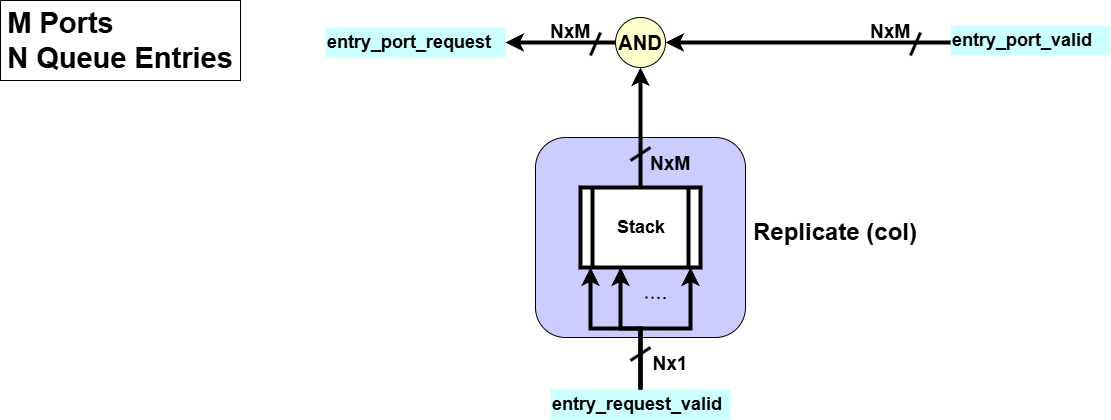
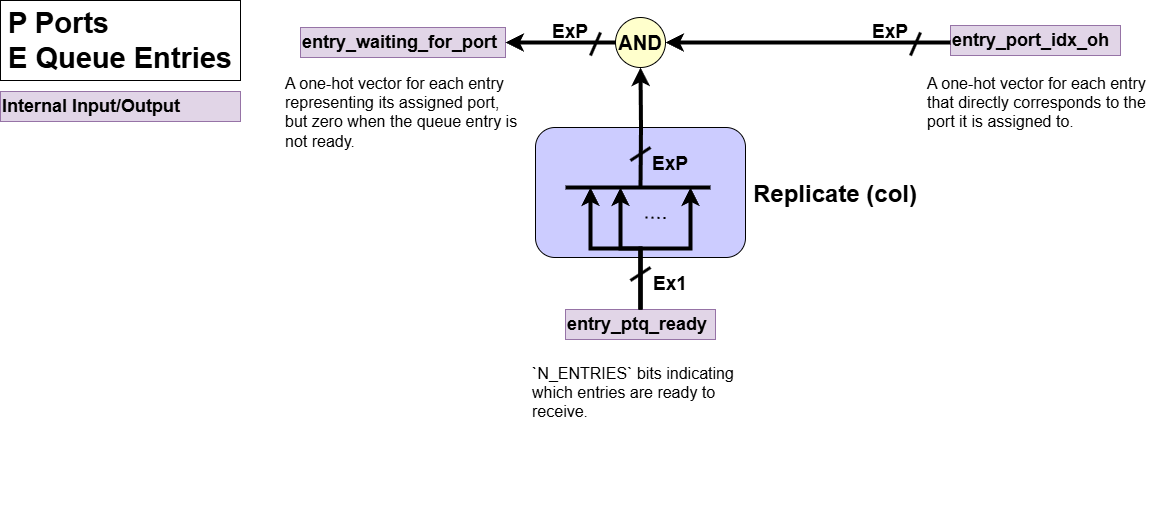
ptq dispatcher almost-final ver

Changed region(s): [[0.2448, 0.031, 1.0, 1.0], [0.0, 0.0, 0.2142, 0.2476], [0.1836, 0.0, 0.2142, 0.031]]

diff --git a/tools/backend/lsq-generator-python/vhdl_gen/generators/dispatchers.py b/tools/backend/lsq-generator-python/vhdl_gen/generators/dispatchers.py
@@ -115,8 +115,8 @@ class PortToQueueDispatcher:
             ctx, 'port_bits', 'i', self.numPorts, self.bitsW)
         port_valid_i = LogicArray(ctx, 'port_valid', 'i', self.numPorts)
         port_ready_o = LogicArray(ctx, 'port_ready', 'o', self.numPorts)
-        entry_valid_i = LogicArray(ctx, 'entry_valid', 'i', self.numEntries)
-        entry_bits_valid_i = LogicArray(
+        entry_alloc_i = LogicArray(ctx, 'entry_valid', 'i', self.numEntries)
+        entry_payload_valid_i = LogicArray(
             ctx, 'entry_bits_valid', 'i', self.numEntries)
         if (self.numPorts != 1):
             entry_port_idx_i = LogicVecArray(
@@ -127,37 +127,37 @@ class PortToQueueDispatcher:
         queue_head_oh_i = LogicVec(ctx, 'queue_head_oh', 'i', self.numEntries)
 
         # one-hot port index
-        entry_port_valid = LogicVecArray(
-            ctx, 'entry_port_valid', 'w', self.numEntries, self.numPorts)
+        entry_port_idx_oh = LogicVecArray(
+            ctx, 'entry_port_idx_oh', 'w', self.numEntries, self.numPorts)
         for i in range(0, self.numEntries):
             if (self.numPorts == 1):
-                arch += Op(ctx, entry_port_valid[i], 1)
+                arch += Op(ctx, entry_port_idx_oh[i], 1)
             else:
-                arch += BitsToOH(ctx, entry_port_valid[i], entry_port_idx_i[i])
+                arch += BitsToOH(ctx, entry_port_idx_oh[i], entry_port_idx_i[i])
 
         # Mux for the data/addr
         for i in range(0, self.numEntries):
             arch += Mux1H(ctx, entry_bits_o[i],
-                          port_bits_i, entry_port_valid[i])
+                          port_bits_i, entry_port_idx_oh[i])
 
         # Entries that request data/address from a any port
-        entry_request_valid = LogicArray(
-            ctx, 'entry_request_valid', 'w', self.numEntries)
+        entry_ptq_ready = LogicArray(
+            ctx, 'entry_ptq_ready', 'w', self.numEntries)
         for i in range(0, self.numEntries):
-            arch += Op(ctx, entry_request_valid[i], entry_valid_i[i],
-                       'and', 'not', entry_bits_valid_i[i])
+            arch += Op(ctx, entry_ptq_ready[i], entry_alloc_i[i],
+                       'and', 'not', entry_payload_valid_i[i])
 
         # Entry-port pairs that the entry request the data/address from the port
-        entry_port_request = LogicVecArray(
-            ctx, 'entry_port_request', 'w', self.numEntries, self.numPorts)
+        entry_waiting_for_port = LogicVecArray(
+            ctx, 'entry_waiting_for_port', 'w', self.numEntries, self.numPorts)
         for i in range(0, self.numEntries):
-            arch += Op(ctx, entry_port_request[i], entry_port_valid[i],
-                       'when', entry_request_valid[i], 'else', 0)
+            arch += Op(ctx, entry_waiting_for_port[i], entry_port_idx_oh[i],
+                       'when', entry_ptq_ready[i], 'else', 0)
 
         # Reduce the matrix for each entry to get the ready signal:
         # If one or more entries is requesting data/address from a certain port, ready is set high.
         port_ready_vec = LogicVec(ctx, 'port_ready_vec', 'w', self.numPorts)
-        arch += Reduce(ctx, port_ready_vec, entry_port_request, 'or')
+        arch += Reduce(ctx, port_ready_vec, entry_waiting_for_port, 'or')
         arch += VecToArray(ctx, port_ready_o, port_ready_vec)
 
         # AND the request signal with valid, it shows entry-port pairs that are both valid and ready.
@@ -166,7 +166,7 @@ class PortToQueueDispatcher:
         for i in range(0, self.numEntries):
             for j in range(0, self.numPorts):
                 arch += ctx.get_current_indent() + f'{entry_port_and.getNameWrite(i, j)} <= ' \
-                    f'{entry_port_request.getNameRead(i, j)} and {port_valid_i.getNameRead(j)};\n'
+                    f'{entry_waiting_for_port.getNameRead(i, j)} and {port_valid_i.getNameRead(j)};\n'
 
         # For each port, the oldest entry receives bit this cycle. The priority masking per port(column)
         # generates entry-port pairs that will tranfer data/address this cycle.
@@ -200,8 +200,8 @@ class PortToQueueDispatcher:
         port_bits_i:        LogicVecArray,
         port_valid_i:       LogicArray,
         port_ready_o:       LogicArray,
-        entry_valid_i:      LogicArray,
-        entry_bits_valid_i: LogicArray,
+        entry_alloc_i:      LogicArray,
+        entry_payload_valid_i: LogicArray,
         entry_port_idx_i:   LogicVecArray,
         entry_bits_o:       LogicVecArray,
         entry_wen_o:        LogicArray,
@@ -219,8 +219,8 @@ class PortToQueueDispatcher:
             port_bits_i          : Input data or address bits from each port
             port_valid_i         : Valid signal for each input port (Valid data/address)
             port_ready_o         : Ready signal indicating the queue is ready to receive data/address
-            entry_valid_i        : Valid bit for a queue entry
-            entry_bits_valid_i   : Valid bit for the contents of a queue entry
+            entry_alloc_i        : Allocation bit for a queue entry
+            entry_payload_valid_i: Valid bit for the data/address of a queue entry
             entry_port_idx_i     : Indicates to which port the entry is assigned
             entry_bits_o         : Output bits written to the entry
             entry_wen_o          : Write enable for each entry 
@@ -235,8 +235,8 @@ class PortToQueueDispatcher:
                 port_bits_i         = ldp_addr_i,
                 port_valid_i        = ldp_addr_valid_i,
                 port_ready_o        = ldp_addr_ready_o,
-                entry_valid_i       = ldq_valid,
-                entry_bits_valid_i  = ldq_addr_valid,
+                entry_alloc_i       = ldq_valid,
+                entry_payload_valid_i  = ldq_addr_valid,
                 entry_port_idx_i    = ldq_port_idx,
                 entry_bits_o        = ldq_addr,
                 entry_wen_o         = ldq_addr_wen,
@@ -295,10 +295,10 @@ class PortToQueueDispatcher:
                 f'port_valid_{i}_i => {port_valid_i.getNameRead(i)},\n'
         for i in range(0, self.numEntries):
             arch += ctx.get_current_indent() + \
-                f'entry_valid_{i}_i => {entry_valid_i.getNameRead(i)},\n'
+                f'entry_alloc_{i}_i => {entry_alloc_i.getNameRead(i)},\n'
         for i in range(0, self.numEntries):
             arch += ctx.get_current_indent() + \
-                f'entry_bits_valid_{i}_i => {entry_bits_valid_i.getNameRead(i)},\n'
+                f'entry_payload_valid_{i}_i => {entry_payload_valid_i.getNameRead(i)},\n'
         for i in range(0, self.numEntries):
             if (self.numPorts != 1):
                 arch += ctx.get_current_indent() + \

diff --git a/docs/LSQ/PortToQueueDispatcher.md b/docs/LSQ/PortToQueueDispatcher.md
@@ -24,103 +24,122 @@ Let's assume the following generic parameters for dimensionality:
 * `PAYLOAD_WIDTH`: The bit-width of the payload (e.g., 8 bits).
 * `PORT_IDX_WIDTH`: The bit-width required to index a port (e.g., `ceil(log2(N_PORTS))`).
 
+**Signal Naming and Dimensionality**:  
+This module is generated from a higher-level description (e.g., in Python), which results in a specific convention for signal naming in the final VHDL code. It's important to understand this convention when interpreting diagrams and signal tables.
+
+- Generation Pattern: A signal that is conceptually an array in the source code (e.g., `port_bits_i`) is "unrolled" into multiple, distinct signals in the VHDL entity. The generated VHDL signals are indexed with a suffix, such as `port_bits_{p}_i`, where `{p}` is the port index.
+
+- Interpreting Diagrams: If a diagram or conceptual description uses a base name without an index (e.g., `port_bits_i`), it represents a collection of signals. The actual dimension is expanded based on the context:
+
+    - Port-related signals (like `port_bits_i`) are expanded by the number of ports (`N_PORTS`).
+    - Entry-related signals (like `entry_alloc_i`) are expanded by the number of queue entries (`N_ENTRIES`).
+
 ### Port Interface Signals
 
 ![Port Interface](./figs/ptq/PTQ_Port_Interface.png)
 
 These signals are used for communication between the external modules and the dispatcher's ports.
+ `p=[0, N_PORTS-1]`
 
-| Signal Name | Direction | Dimensionality | Description |
-| :--- | :--- | :--- | :--- |
-| **Inputs** | | | |
-| `port_bits_i` | Input | `N_PORTS` of `std_logic_vector(PAYLOAD_WIDTH-1:0)` | Array of payloads (address or data), one for each port. |
-| `port_valid_i` | Input | `N_PORTS` of `std_logic` | Array of valid flags. When `port_valid_i[p]` is high, the payload on `port_bits_i[p]` is valid.|
-| **Outputs** | | | |
-| `port_ready_o` | Output | `N_PORTS` of `std_logic` | Array of ready flags. `port_ready_o[p]` goes high if the queue can accept the payload from port `p` this cycle. |
+| Python Variable Name | VHDL Signal Name | Direction | Dimensionality | Description |
+| :--- | :--- | :--- | :--- | :--- |
+| **Inputs** | | | | |
+| `port_bits_i` | `port_bits_{p}_i` | Input | `std_logic_vector(PAYLOAD_WIDTH-1:0)` | The payload (address or data) for port `p`.|
+| `port_valid_i` | `port_valid_{p}_i` | Input | `std_logic` | Valid flag for port `p`. When high, it indicates that the payload on `port_bits_{p}_i` is valid. |
+| **Outputs** | | | | |
+| `port_ready_o` | `port_ready_{p}_o` | Output | `std_logic` | Ready flag for port `p`. This signal goes high if the queue can accept the payload from port `p` this cycle. |
 
 
 
 ### Queue Interface Signals
 
 These signals are used for communication between the dispatcher logic and the queue's memory entries.
+ `e=[0, N_ENTRIES-1]`
 
 ![Queue Interface](./figs/ptq/PTQ_Queue_Interface.png)
 
-| Signal Name | Direction | Dimensionality | Description |
-| :--- | :--- | :--- | :--- |
-| **Inputs** | | | |
-| `entry_valid_i` | Input | `N_ENTRIES` of `std_logic` | Is queue entry `e` logically allocated? |
-| `entry_bits_valid_i` | Input | `N_ENTRIES` of `std_logic` | Has the address or the data slot for entry `e` already been filled? |
-| `entry_port_idx_i` | Input | `N_ENTRIES` of `std_logic_vector(PORT_IDX_WIDTH-1:0)`| Indicates to which port each entry is assigned. |
-| `queue_head_oh_i` | Input | `std_logic_vector(N_ENTRIES-1:0)` | One-hot vector indicating the head entry in the queue. |
-| **Outputs** | | | |
-| `entry_bits_o` | Output | `N_ENTRIES` of `std_logic_vector(PAYLOAD_WIDTH-1:0)`| The data to be written into each queue entry. Think of it as the ink flowing into a row on the whiteboard. |
-| `entry_wen_o` | Output | `N_ENTRIES` of `std_logic` | A write-enable signal for each entry. When `entry_wen_o` of entry `e` is high, `entry_bits_valid_i[e]` will become high by the logic outside of the dispatcher. |
+| Python Variable Name | VHDL Signal Name | Direction | Dimensionality | Description |
+| :--- | :--- | :--- | :--- | :--- |
+| **Inputs** | | | | |
+| `entry_alloc_i` | `entry_valid_{e}_i` | Input | `std_logic` | Is queue entry `e` logically allocated?|
+| `entry_payload_valid_i` | `entry_bits_valid_{e}_i` | Input | `std_logic` | Has the address or the data slot for entry `e` already had valid one? |
+| `entry_port_idx_i` | `entry_port_idx_{e}_i` | Input | `std_logic_vector(PORT_IDX_WIDTH-1:0)`| Indicates to which port entry `e` is assigned. |
+| `queue_head_oh_i` | `queue_head_oh_{e}_i` | Input | `std_logic_vector(N_ENTRIES-1:0)` | One-hot vector indicating the head entry in the queue. |
+| **Outputs** | | | | |
+| `entry_bits_o` | `entry_bits_{e}_o` | Output | `std_logic_vector(PAYLOAD_WIDTH-1:0)`| The payload to be written into queue entry `e`. |
+| `entry_wen_o` | `entry_wen_{e}_o` | Output | `std_logic` | A write-enable signal for entry `e`. When high, `entry_bits_valid_{e}_i` is expected to be asserted by logic outside of this module. This logic exists outside of the dispatcher module. When the write-enable signal is on, this outside logic makes the dispatcher to consider the payload in the queue entry `e` is the valid one. |
 
 
 
 
-The Port-to-Queue Dispatcher has the following responsibilities:
+The Port-to-Queue Dispatcher has the following responsibilities (with 3-port, 4-entry store address dispatcher example):
 
 1. **Matching**  
     ![Matching](./figs/ptq/PTQ_matching_description.png)  
+    ![Matching](./figs/ptq/PTQ_Matching.png)  
     The Matching block is responsible for identifying which queue entries are actively waiting to receive an address or data payload.
     - **Input**:  
-        - `entry_valid_i`: Indicates if the entry is allocated by the group allocator.
-        - `entry_bits_valid_i`: Indicates if the entry's payload slot is already filled. 
-    - **Processing**: For each queue entry, this block performs the check: `entry_valid_i AND (NOT entry_bits_valid_i)`. An entry is considered waiting only if it has been allocated (`entry_valid_i = 1`) but its payload slot is still empty (`entry_bits_valid_i = 0`)
+        - `entry_alloc_i`: Indicates if the entry is allocated by the group allocator.
+        - `entry_payload_valid_i`: Indicates if the entry's payload slot is already valid. 
+    - **Processing**: For each queue entry, this block performs the check: `entry_alloc_i AND (NOT entry_payload_valid_i)`. An entry is considered waiting only if it has been allocated (`entry_alloc_i = 1`) but its payload slot is still empty (`entry_payload_valid_i = 0`)
     - **Output**:  
-        - `entry_request_valid`: A array of bits indicating the queue entry is ready to receive address or data.
+        - `entry_ptq_ready`: `N_ENTRIES` bits indicating the queue entry is ready to receive address or data.
 
 2. **Port Index Decoder**  
     ![Port_Index_Decoder](./figs/ptq/PTQ_Port_Index_Decoder_description.png)  
+    ![Port_Index_Decoder](./figs/ptq/PTQ_Port_Index_Decoder.png)  
     When the group allocator allocates a queue entry, it also assigns the queue entry to a specific port, storing this port assignment as an integer. The Port Index Decoder decodes the port assignment for each queue entry from an integer representation to a one-hot representation.
     - **Input**:   
         - `entry_port_idx_i`: Queue entry-port assignment information
     - **Processing**:  
         - It performs a integer-to-one-hot conversion on the port index associated with each entry. For example, if there are 3 ports, an integer index of `1 (01 in binary)` would be converted to a one-hot vector of `010`.
     - **Output**:  
-        - `entry_port_valid`: A one-hot vector for each entry that directly corresponds to the port it is assigned to.
+        - `entry_port_idx_oh`: A one-hot vector for each entry that directly corresponds to the port it is assigned to.
 
 3. **Payload Mux**  
     ![Mux1H](./figs/ptq/PTQ_Payload_Mux_description.png)  
+    ![PTQ_Payload_MUX](./figs/ptq/PTQ_Payload_MUX.png)  
     This block routes the address or data payload from the appropriate input port to the correct queue entries. 
     - **Input**:  
-         - `port_bits_i`: An array containing the address or data payload from all access ports.
-         - `entry_port_valid`: The one-hot port assignment for each queue entry, used as the select signal.
-    - **Processing**: For each queue entry, a multiplexer `Mux1H` uses the corresponding `entry_port_valid` one-hot vector to select one payload from `port_bits_i` array.
+         - `port_bits_i`: `N_PORTS` of the address or data payload from all access ports.
+         - `entry_port_idx_oh`: The one-hot port assignment for each queue entry, used as the select signal.
+    - **Processing**: For each queue entry, a multiplexer `Mux1H` uses the corresponding `entry_port_idx_oh` one-hot vector to select one payload from `port_bits_i`.
     - **Output**:  
         - `entry_bits_o`: The selected payload of each queue entry.
 
 4. **Entry-Port Assignment Masking Logic**  
     ![Entry-Port Assignment Assignment Logic](./figs/ptq/PTQ_entry_port_assignment_masking_description.png)  
-    Each entry is waiting for the payload from a certain port. This block masks out the port assignments for each queue entry if it is not ready to receive the payload. It propagates these entry-port assignment information only for entries that are available to receive the payload.
+    ![Entry-Port Assignment Assignment Logic](./figs/ptq/PTQ_Entry_Port_Assignment_Masking.png)   
+
+    Each queue entry which is waiting for data, can only receive data from one port. This converts entry waiting from one-bit signal to a one-hot representation of the port it is waiting for the data from.
     
     - **Input**:  
-         - `entry_port_valid`: A one-hot vector for each entry representing its assigned port.
-         - `entry_request_valid`: A bit array indicating which entries are ready to receive.
-    - **Processing**: Performs a bitwise AND operation between each entry's one-hot port assignment (`entry_port_valid`) and its readiness status (`entry_request_valid`). This masks out assignments for entries that are not ready.
+         - `entry_port_idx_oh`: A one-hot vector for each entry representing its assigned port.
+         - `entry_ptq_ready`: `N_ENTRIES` bits indicating which entries are ready to receive.
+    - **Processing**: Performs a bitwise AND operation between each entry's one-hot port assignment (`entry_port_idx_oh`) and its readiness status (`entry_ptq_ready`). This masks out assignments for entries that are not waiting.
     - **Output**:  
-        - `entry_port_request`: A one-hot vector for each entry representing its assigned port, but zero when the queue entry is not ready.
+        - `entry_waiting_for_port`: A one-hot vector for each entry representing its assigned port, but zero when the queue entry is not ready.
 
 
 
 5. **Handshake Logic**  
     ![PTQ_Handshake](./figs/ptq/PTQ_Handshake_description.png)  
+    ![PTQ_Handshake](./figs/ptq/PTQ_Handshake.png)  
     This block manages the `valid/ready` handshake protocol with the external access ports. It generates the outgoing `port_ready_o` signals and produces the final entry-port assignments that have completed a successful handshake (i.e. the internal request is ready and the external port is valid).
 
     - **Input**:  
-        - `entry_port_request`: A one-hot vector for each entry representing its assigned port, but zero when the queue entry is not ready.
+        - `entry_waiting_for_port`: A one-hot vector for each entry representing its assigned port, but zero when the queue entry is not ready.
         - `port_valid_i`: The incoming port valid signals from each external port.
     - **Processing**:  
         - Ready Generation: It determines if any queue entry is waiting for data from a specific port. If so, it asserts the `port_ready_o` signal for that port to indicate it can accept data. 
-        - Handshake: It then uses the external `port_valid_i` signals to mask out entries in `entry_port_request` if the corresponding port is not valid.
+        - Handshake: It then uses the external `port_valid_i` signals to mask out entries in `entry_waiting_for_port` if the corresponding port is not valid.
     - **Output**:
         - `port_ready_o`: The outgoing ready signal to each external port.
         - `entry_port_and`: Represents the set of handshaked entry-port assignments. This signal indicates a successful handshake and is sent to the **Arbitration Logic** to select the oldest one.
 
 6. **Arbitration Logic**  
     ![PTQ_Handshake](./figs/ptq/PTQ_Arbitration_description.png)  
+    ![PTQ_masking](./figs/ptq/PTQ_masking.png)  
     The core decision making block of the dispatcher. When multiple handshaked entry-port assignments are ready to be written in the same cycle, it chooses the oldest queue entry among the valid ones for each port.
     - **Input**:  
         - `entry_port_and`: The set of all currently valid and ready entry-port assignments.
@@ -141,13 +160,13 @@ The Port-to-Queue Dispatcher has the following responsibilities:
     ![Matching](./figs/ptq/PTQ_Matching.png)  
     The first job of this block is to determine which entries in the store queue are waiting for a store address.  
     Based on the example diagram:  
-    - **Entry 1** is darkened to indicate that it has not been allocated by the Group Allocator. Its `Store Queue Valid` signal (equivalent to `entry_valid_i`) is `0`.  
-    - **Entries 0, 2, and 3** have been allocated, so their `entry_valid_i` signal are `1`. However, among these, Entry 2 already has a valid address (`Store Queue Addr Valid = 1`).
+    - **Entry 1** is darkened to indicate that it has not been allocated by the Group Allocator. Its `Store Queue Valid` signal (equivalent to `entry_alloc_i`) is `0`.  
+    - **Entries 0, 2, and 3** have been allocated, so their `entry_alloc_i` signal are `1`. However, among these, Entry 2 already has a valid address (`Store Queue Addr Valid = 1`).
     - Therefore, only `Entries 0 and 3` are actively waiting for their store address, as they are allocated but their `Store Queue Addr Valid` bit is still `0`.  
   
-    This logic is captured by the expression `entry_request_valid = entry_valid_i AND (NOT entry_bits_valid_i)`, which creates a list of entries that need attention from the dispatcher.
+    This logic is captured by the expression `entry_ptq_ready = entry_alloc_i AND (NOT entry_payload_valid_i)`, which creates a list of entries that need attention from the dispatcher.
 
-2. **Port Index Decoder: Queue entries port assignment in one-hot format**
+2. **Port Index Decoder: Queue entries port assignment in one-hot format**  
     ![Port_Index_Decoder](./figs/ptq/PTQ_Port_Index_Decoder.png)  
     This block's circuit is to decode an integer index assigned to each queue entry into a one-hot format.  
     Based on the example diagram:  
@@ -159,7 +178,7 @@ The Port-to-Queue Dispatcher has the following responsibilities:
         - `Entry 2 (Port 1)`: `010`
         - `Entry 3 (Port 2)`: `100`
 
-    The output of this block, an array of one-hot vectors, is a crucial input for the `Payload Mux`, where it acts as the select signal to choose the data from the correct port.    
+    The output of this block, `N_ENTRIES` of one-hot vectors, is a crucial input for the `Payload Mux`, where it acts as the select signal to choose the data from the correct port.    
 
 3. **Payload Mux: Routing the correct address**  
     ![PTQ_Payload_MUX](./figs/ptq/PTQ_Payload_MUX.png)  
@@ -181,12 +200,12 @@ The Port-to-Queue Dispatcher has the following responsibilities:
 4. **Entry-Port Assignment Masking Logic**  
     ![Entry-Port Assignment Assignment Logic](./figs/ptq/PTQ_Entry_Port_Assignment_Masking.png)  
     Based on the example diagram:
-    - `entry_request_valid`:
+    - `entry_ptq_ready`:
         - `Entry 0`: `1` (Entry 0 is waiting)    -> `111`
         - `Entry 1`: `0` (Entry 1 is not waiting)  -> `000`
         - `Entry 2`: `0` (Entry 2 is not waiting)  -> `000`
         - `Entry 3`: `1` (Entry 3 is waiting)    -> `111`
-    - `entry_port_valid`:
+    - `entry_port_idx_oh`:
         - `Entry 0`: `010` (Port 1)
         - `Entry 1`: `000` (Port 0)
         - `Entry 2`: `010` (Port 1)
@@ -197,7 +216,7 @@ The Port-to-Queue Dispatcher has the following responsibilities:
         - `Entry 2`: `000` AND `010` = `000`
         - `Entry 3`: `111` AND `100` = `100`
         
-        > `entry_port_request`: It now only contains one-hot vectors for entries that are both allocated and waiting for a payload.
+        > `entry_waiting_for_port`: It now only contains one-hot vectors for entries that are both allocated and waiting for a payload.
 
 
 5. **Handshake Logic: Managing port readiness and masking the port assigned with invalid ports**
